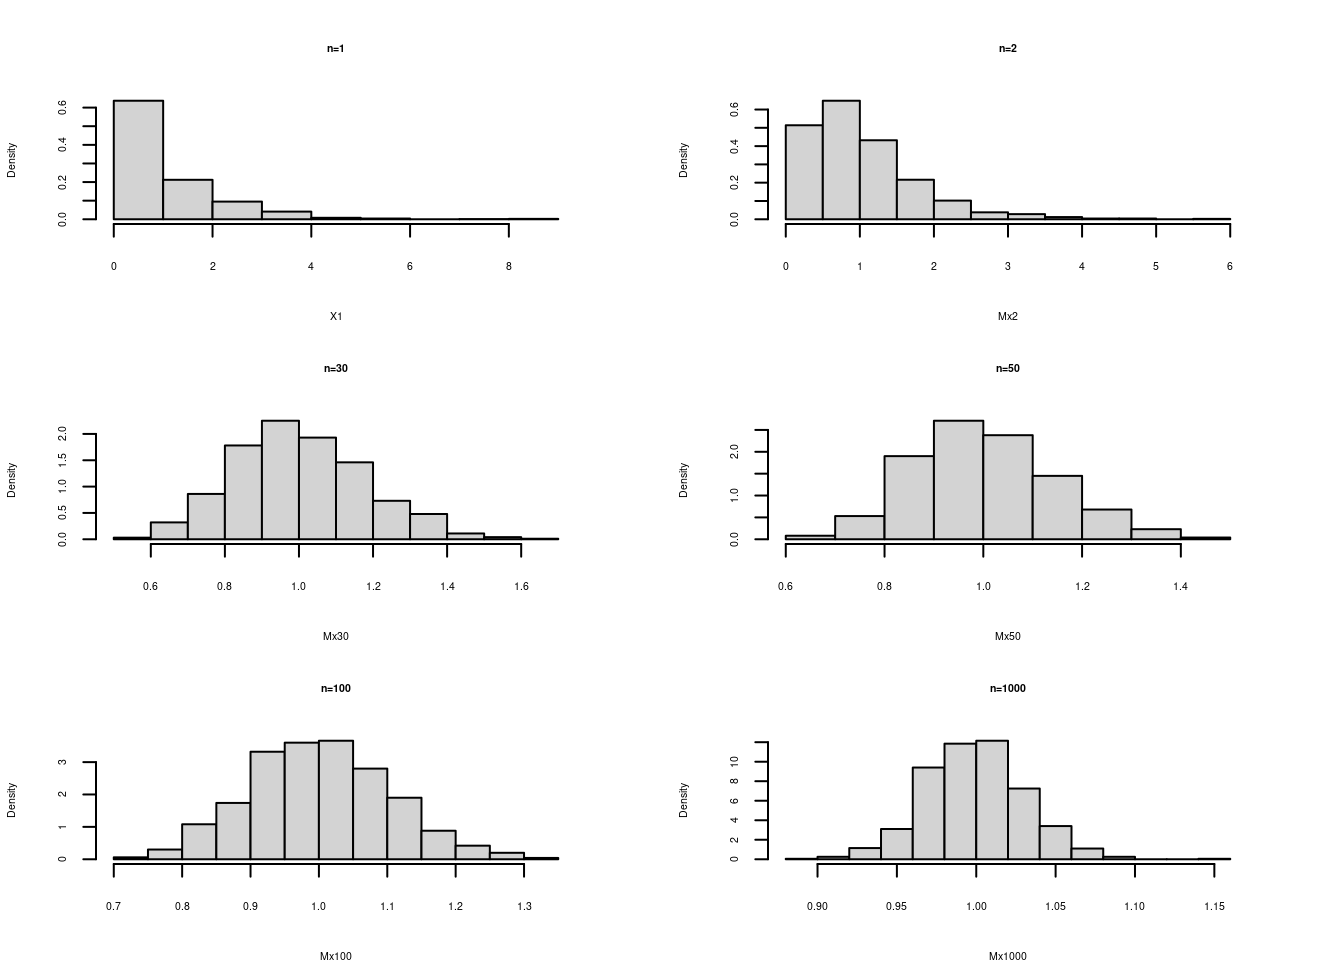
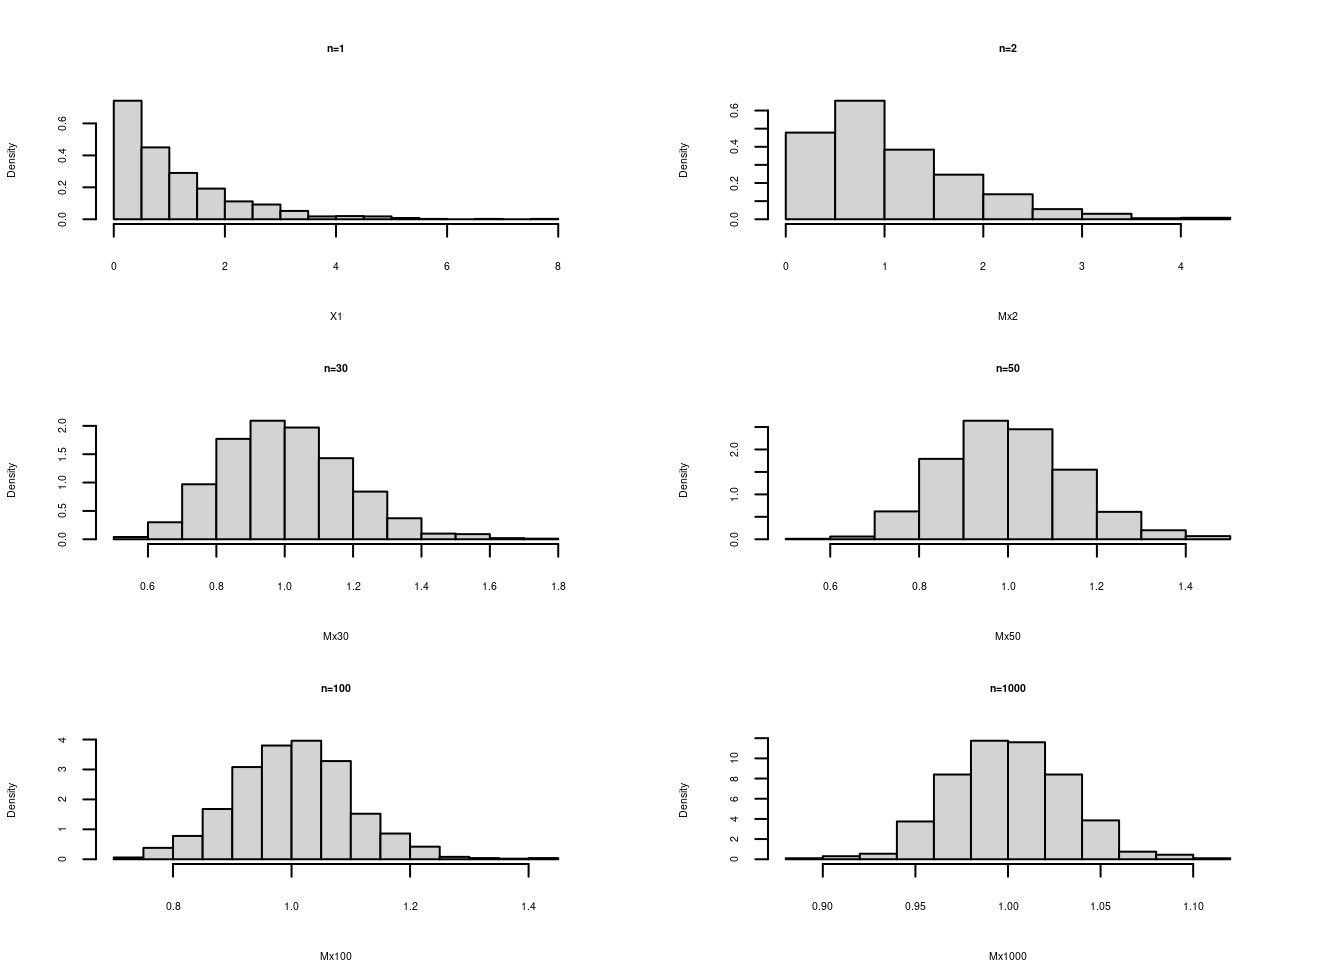
ajustes guia 4.1

diff --git a/Guia401.html b/Guia401.html
@@ -651,7 +651,9 @@ Ademas del material suministrado contaran con el acompañamiento del profesor en
 <p><br/><br/></p>
 <div id="introducción-1" class="section level2">
 <h2><strong>Introducción</strong></h2>
+<p><img src="img/poblacion.png" /></p>
 <p>La inferencia estadística permite generalizar lo hallado en una muestra a toda la población. Para realizar este proceso contamos con dos opciones: Estimación y las Pruebas de hipótesis. El fundamento de estos procesos está relacioando con varios conceptos como:</p>
+<p><br/><br/></p>
 <table>
 <colgroup>
 <col width="15%" />
@@ -691,6 +693,7 @@ Ademas del material suministrado contaran con el acompañamiento del profesor en
 </tr>
 </tbody>
 </table>
+<p><a href="https://padlet.com/dgonzalez80/lijxz9p7nvz5mm2q">Tablero 300MAE005 A 2020-2</a> <br/> <a href="https://padlet.com/dgonzalez80/ivy0h9vyhtiq9l1d">Tablero 300MAE005 B 2020-2</a> <br/> <a href="https://padlet.com/dgonzalez80/ivy0h9vyhtiq9l1d">Tablero 300MAE005 F 2020-2</a> <br/></p>
 <p><br/><br/></p>
 <div id="población" class="section level3">
 <h3><strong>Población</strong></h3>
@@ -717,9 +720,12 @@ Ademas del material suministrado contaran con el acompañamiento del profesor en
 <p>Es la evaluación o generación del estimador para una muestra determinada.</p>
 <p>Como ejemplo podemos utilizar uno de los estimadores que estudiaremos : <span class="math inline">\(\widehat{\mu}= \bar{x}\)</span>, para una muestra dada</p>
 <p><span class="math display">\[ 630, 650, 710, 750, 790, 820, 860 \text{ y } 910\]</span> <span class="math display">\[\widehat{\mu}=\frac{1}{n}\sum_{i=1}^{n} x_{i} =\frac{1}{8}(630+650+...+910)=765\]</span> El valor del estimador de <span class="math inline">\(\mu\)</span> para esta muestra es <span class="math display">\[\widehat{\mu}=\bar{x}= 765\]</span>.</p>
-<p><br/><br/> ## <strong>Muestreo</strong></p>
-<p><br/></p>
+<p><br/><br/></p>
 </div>
+</div>
+<div id="muestreo" class="section level2">
+<h2><strong>Muestreo</strong></h2>
+<p><br/></p>
 <div id="importancia-del-muestreo" class="section level3">
 <h3><strong>Importancia del Muestreo</strong></h3>
 <p><br/></p>
@@ -771,12 +777,17 @@ Ademas del material suministrado contaran con el acompañamiento del profesor en
 </tr>
 <tr class="even">
 <td align="left">Atención a casos individuales</td>
+<td align="left">si</td>
+<td align="left">no</td>
+</tr>
+<tr class="odd">
+<td align="left"></td>
 <td align="left"></td>
 <td align="left"></td>
 </tr>
 </tbody>
 </table>
-<p>Tomado de Malhotra(2004)</p>
+<p><font size="-1">Tomado de Malhotra(2004)</font></p>
 <p><br/></p>
 <p>Un diseño de muestreo es una estrategia para obtener una muestra, genera algunas preguntas asociadas al proceso de muestreo: ¿cómo seleccionar de una manera óptima la muestra?, ¿Qué característica medir en las unidades observadas? y ¿cómo estimar las características poblacionales a partir de la información muestral?. El proceso de obtención de las muestras por su parte, requiere la definición de algunos aspectos como, ¿cuál es el tamaño óptimo para el cumplimiento de los objetivos?, o ¿mediante qué procedimiento de aleatorización realizar el proceso de selección?, ¿qué tipo de método observacional utilizar y qué medidas tomar?. En el muestreo, uno tiene la oportunidad de seleccionar deliberadamente la muestra, para evitar inducir por ejemplo, a seleccionar por conveniencia algún individuo en particular, situación que pudiera conducir a sesgos en los resultados finales de la investigación.</p>
 <p>En resumen, podemos decir que el muestreo consiste en la selección, mediante procedimientos preestablecidos que nos aseguren aleatoriedad y representatividad, de una parte de una colección finita de unidades, seguida de algunas conclusiones respecto de la población, basándonos en la parte de ella que hemos observado. Este proceso se basa en principios relacionados con la inferencia estadística, lo que implica fuentes de incertidumbre (producto de la aleatoriedad), como por ejemplo</p>
@@ -806,9 +817,9 @@ Ademas del material suministrado contaran con el acompañamiento del profesor en
 <p>El tamaño de la muestra <span class="math inline">\(n\)</span> es función de tres elementos que son: la varianza, la confiabilidad y el error de muestreo. Los dos últimos a criterio del investigador.</p>
 <p><span class="math display">\[n=\dfrac{z^{2}_{_{\alpha/2}} \sigma^{2}}{e^{2}}\]</span></p>
 <p>Donde:</p>
-<p><strong>Varianza</strong> : <span class="math inline">\(\sigma^{2}\)</span>: Caracteriza la variable a estimar. Entre mayor sea su valor, mayor deberá ser el tamaño de la muestra. En ocasiones es necesario realizar una prueba piloto que nos permita tener un valor para calcular <span class="math inline">\(n\)</span>. Otra alternativa puede ser el conocimiento empírico de expertos sobre el rango de la variable. Con este valor podemos estimar una aproximación de la desviación estándar como: <span class="math inline">\(\sigma =\)</span> rango/4.</p>
-<p><strong>Confiabilidad</strong> : Este concepto está relacionado con el grado de veracidad que tienen los resultados obtenidos. Si el estudio es repetido muchas veces, ¿ cuántas de estas coinciden con los resultados obtenidos?. Su valor está relacionado con el percentil de las distribución normal estándar, por ejemplo: una confiabilidad del 95% está relacionada con un valor de <span class="math inline">\(z=1.96\)</span>.</p>
-<p><strong>Error de muestreo</strong> : corresponde a la diferencia entre el valor de la característica en la población (parámetro) y el valor obtenido con la información de la muestra (estimador).Equivale al error que estamos en capacidad de tolerar en las unidades de la variable.</p>
+<p><strong>Varianza</strong> (<span class="math inline">\(\sigma^{2}\)</span>): Caracteriza la variable a estimar. Entre mayor sea su valor, mayor deberá ser el tamaño de la muestra. En ocasiones es necesario realizar una prueba piloto que nos permita tener un valor para calcular <span class="math inline">\(n\)</span>. Otra alternativa puede ser el conocimiento empírico de expertos sobre el rango de la variable. Con este valor podemos estimar una aproximación de la desviación estándar como: <span class="math inline">\(\sigma =\)</span> rango/4.</p>
+<p><strong>Confiabilidad</strong> (<span class="math inline">\(z_{\alpha/2}\)</span> o percentil de la distribución normal estandar)b: Este concepto está relacionado con el grado de veracidad que tienen los resultados obtenidos. Si el estudio es repetido muchas veces, ¿ cuántas de estas coinciden con los resultados obtenidos?. Su valor está relacionado con el percentil de las distribución normal estándar, por ejemplo: una confiabilidad del 95% está relacionada con un valor de <span class="math inline">\(z=1.96\)</span>.</p>
+<p><strong>Error de muestreo</strong> (<span class="math inline">\(e\)</span>) : corresponde a la diferencia entre el valor de la característica en la población (parámetro) y el valor obtenido con la información de la muestra (estimador).Equivale al error que estamos en capacidad de tolerar en las unidades de la variable.</p>
 <p><br/><br/></p>
 <p><strong>Ejemplo de cálculo de tamaño de la muestra- Caso de una media</strong> : Suponga que deseamos determinar el tamaño de la muestra para estimar la media de la nota del curso de estadística, con una confianza del 95% y un error de muestreo de 0.2 puntos. Un estudio realizado el semestre pasado arrojó una varianza de 1.6.</p>
 <p>La información necesaria para el calculo del tamaño de muestra requerido es:</p>
@@ -1497,12 +1508,73 @@ P(p&gt;0.82) &amp;=&amp; P\Bigg(\dfrac{\widehat{p}-p}{(p(1-p)/\sqrt{n}} &gt; \df
 </div>
 <div id="teorema-central-del-límite" class="section level2">
 <h2><strong>Teorema central del límite</strong>:</h2>
-<p>Si <span class="math inline">\(\bar{X}\)</span> es la media de una muestra de tamaño <span class="math inline">\(n\)</span> tomada una población con media <span class="math inline">\(\mu\)</span> y varianza <span class="math inline">\(\sigma^{2}\)</span>, entonces la forma límite de la distribución de : %%<span class="math display">\[Z=\dfrac{\bar{X}-\mu}{\Big(\sigma/\sqrt{n}\Big)} \sim N(0,1) \]</span> %% conforme <span class="math inline">\(n\rightarrow \infty\)</span>, esta aproximación es cada vez más próxima a la normal. Este teorema es aplicable tambien a la variable total de sumatoria de los valores de la muestra <span class="math inline">\(T_{n}=X_{1}+X_{2}+...+X_{n}\)</span></p>
+<p>Si <span class="math inline">\(\bar{X}\)</span> es la media de una muestra de tamaño <span class="math inline">\(n\)</span> tomada una población con media <span class="math inline">\(\mu\)</span> y varianza <span class="math inline">\(\sigma^{2}\)</span>, entonces la forma límite de la distribución de : <span class="math display">\[Z=\dfrac{\bar{X}-\mu}{\Big(\sigma/\sqrt{n}\Big)} \sim N(0,1) \]</span> %% conforme <span class="math inline">\(n\rightarrow \infty\)</span>, esta aproximación es cada vez más próxima a la normal. Este teorema es aplicable tambien a la variable total de sumatoria de los valores de la muestra <span class="math inline">\(T_{n}=X_{1}+X_{2}+...+X_{n}\)</span></p>
 <p><img src="img/tlc.png" style="width:70.0%" /></p>
 <p>El potencial de este teorema esta en que no importa la distribución de la variable X, la distribución de la media provemiente de la muestra tomada de esta población se distribuye aproximadamente normal. Al final de la guía se encuentra practica computacional que nos ayuda a comprender el alcance de este teorema.</p>
 <div id="verificación-del-teorema-central-del-límite" class="section level3">
 <h3><strong>Verificación del Teorema central del límite </strong></h3>
-<p><img src="Guia401_files/figure-html/unnamed-chunk-2-1.png" width="672" /><img src="Guia401_files/figure-html/unnamed-chunk-2-2.png" width="672" /><img src="Guia401_files/figure-html/unnamed-chunk-2-3.png" width="672" /></p>
+<pre class="r"><code>par(cex=0.5, cex.axis=.5, cex.lab=.5, cex.main=.5, cex.sub=.5,  mfrow=c(3,2), mai = c(.5, .5, .5, .5))
+# Teorema Central del Límite-----------------------------
+n=1000   #  numero de columnas (tamaño máximo de muestra)
+m=1000*n
+# Caso --------------------------------------------------
+# distribución exponencial-------------------------------
+X=matrix(rexp(m,1),ncol=n)
+
+# generación de muestras-------------
+X1=X[ ,1]            # n=1
+X2=X[ ,1:2]          # n=2
+X20=X[ ,1:20]        # n=20
+X30=X[ ,1:30]        # n=30
+X50=X[ ,1:50]        # n=50
+X100=X[ ,1:100]      # n=100
+X1000=X[ ,1:1000]    # n=1000
+
+# generacion de medias---------------
+Mx2=apply(X2,1,mean)        # medias de muestras de tamaño n=2
+Mx20=apply(X20,1,mean)      # medias de muestras de tamaño n=20
+Mx30=apply(X30,1,mean)      # medias de muestras de tamaño n=30
+Mx50=apply(X50,1,mean)      # medias de muestras de tamaño n=50
+Mx100=apply(X100,1,mean)    # medias de muestras de tamaño n=100
+Mx1000=apply(X1000,1,mean)  # medias de muestras de tamaño n=1000
+
+# generación de densidad empírica --
+d=density(X1)
+d2=density(Mx2)
+#d20=density(Mx20)
+d30=density(Mx30)
+d50=density(Mx50)
+d100=density(Mx100)
+d1000=density(Mx1000)
+
+# Gráficos de densidad -------------------------------
+# histogramas  de comparacion-------------------------
+plot(d, main=&quot; &quot;, xlab = &quot;n=1&quot;)
+plot(d2,main=&quot; &quot;, xlab = &quot;n=2&quot;)
+#plot(d20, main=&quot;&quot;, xlab = &quot;n=20&quot;)
+plot(d30, main=&quot; &quot;, xlab = &quot;n=30&quot;)
+plot(d50, main=&quot; &quot;, xlab = &quot;n=50&quot;)
+plot(d100, main=&quot; &quot;, xlab = &quot;n=100&quot;)
+plot(d1000,main=&quot; &quot;, xlab=&quot;n=1000&quot;)</code></pre>
+<p><img src="Guia401_files/figure-html/unnamed-chunk-2-1.png" width="672" /></p>
+<pre class="r"><code># histogramas  de comparacion--------------------------
+hist(X1,  main = &quot;n=1&quot;, freq=FALSE)
+hist(Mx2, main =&quot;n=2&quot;, freq=FALSE) 
+# hist(Mx20, main = &quot;n=20&quot;,freq=FALSE)
+hist(Mx30, main = &quot;n=30&quot;,freq=FALSE) 
+hist(Mx50, main = &quot;n=50&quot;,freq=FALSE) 
+hist(Mx100, main = &quot;n=100&quot;, freq=FALSE) 
+hist(Mx1000, main = &quot;n=1000&quot;, freq = FALSE) </code></pre>
+<p><img src="Guia401_files/figure-html/unnamed-chunk-2-2.png" width="672" /></p>
+<pre class="r"><code># histogramas  de comparacion--------------------------
+qqnorm(X1) ; qqline(X1, col=&quot;red&quot;)
+qqnorm(Mx2) ; qqline(Mx2, col=&quot;red&quot;)
+# qqnorm(Mx20) ; qqline(Mx20, col=&quot;red&quot;)
+qqnorm(Mx30) ; qqline(Mx30, col=&quot;red&quot;)
+qqnorm(Mx50) ; qqline(Mx50, col=&quot;red&quot;)
+qqnorm(Mx100) ; qqline(Mx100, col=&quot;red&quot;)
+qqnorm(Mx1000) ; qqline(Mx1000, col=&quot;red&quot;)</code></pre>
+<p><img src="Guia401_files/figure-html/unnamed-chunk-2-3.png" width="672" /></p>
 <p>Se puede notar la transformación de la distribución de la media a una distribución normal a medida que el tamaño de muestra aumenta</p>
 <p><br/><br/></p>
 </div>
